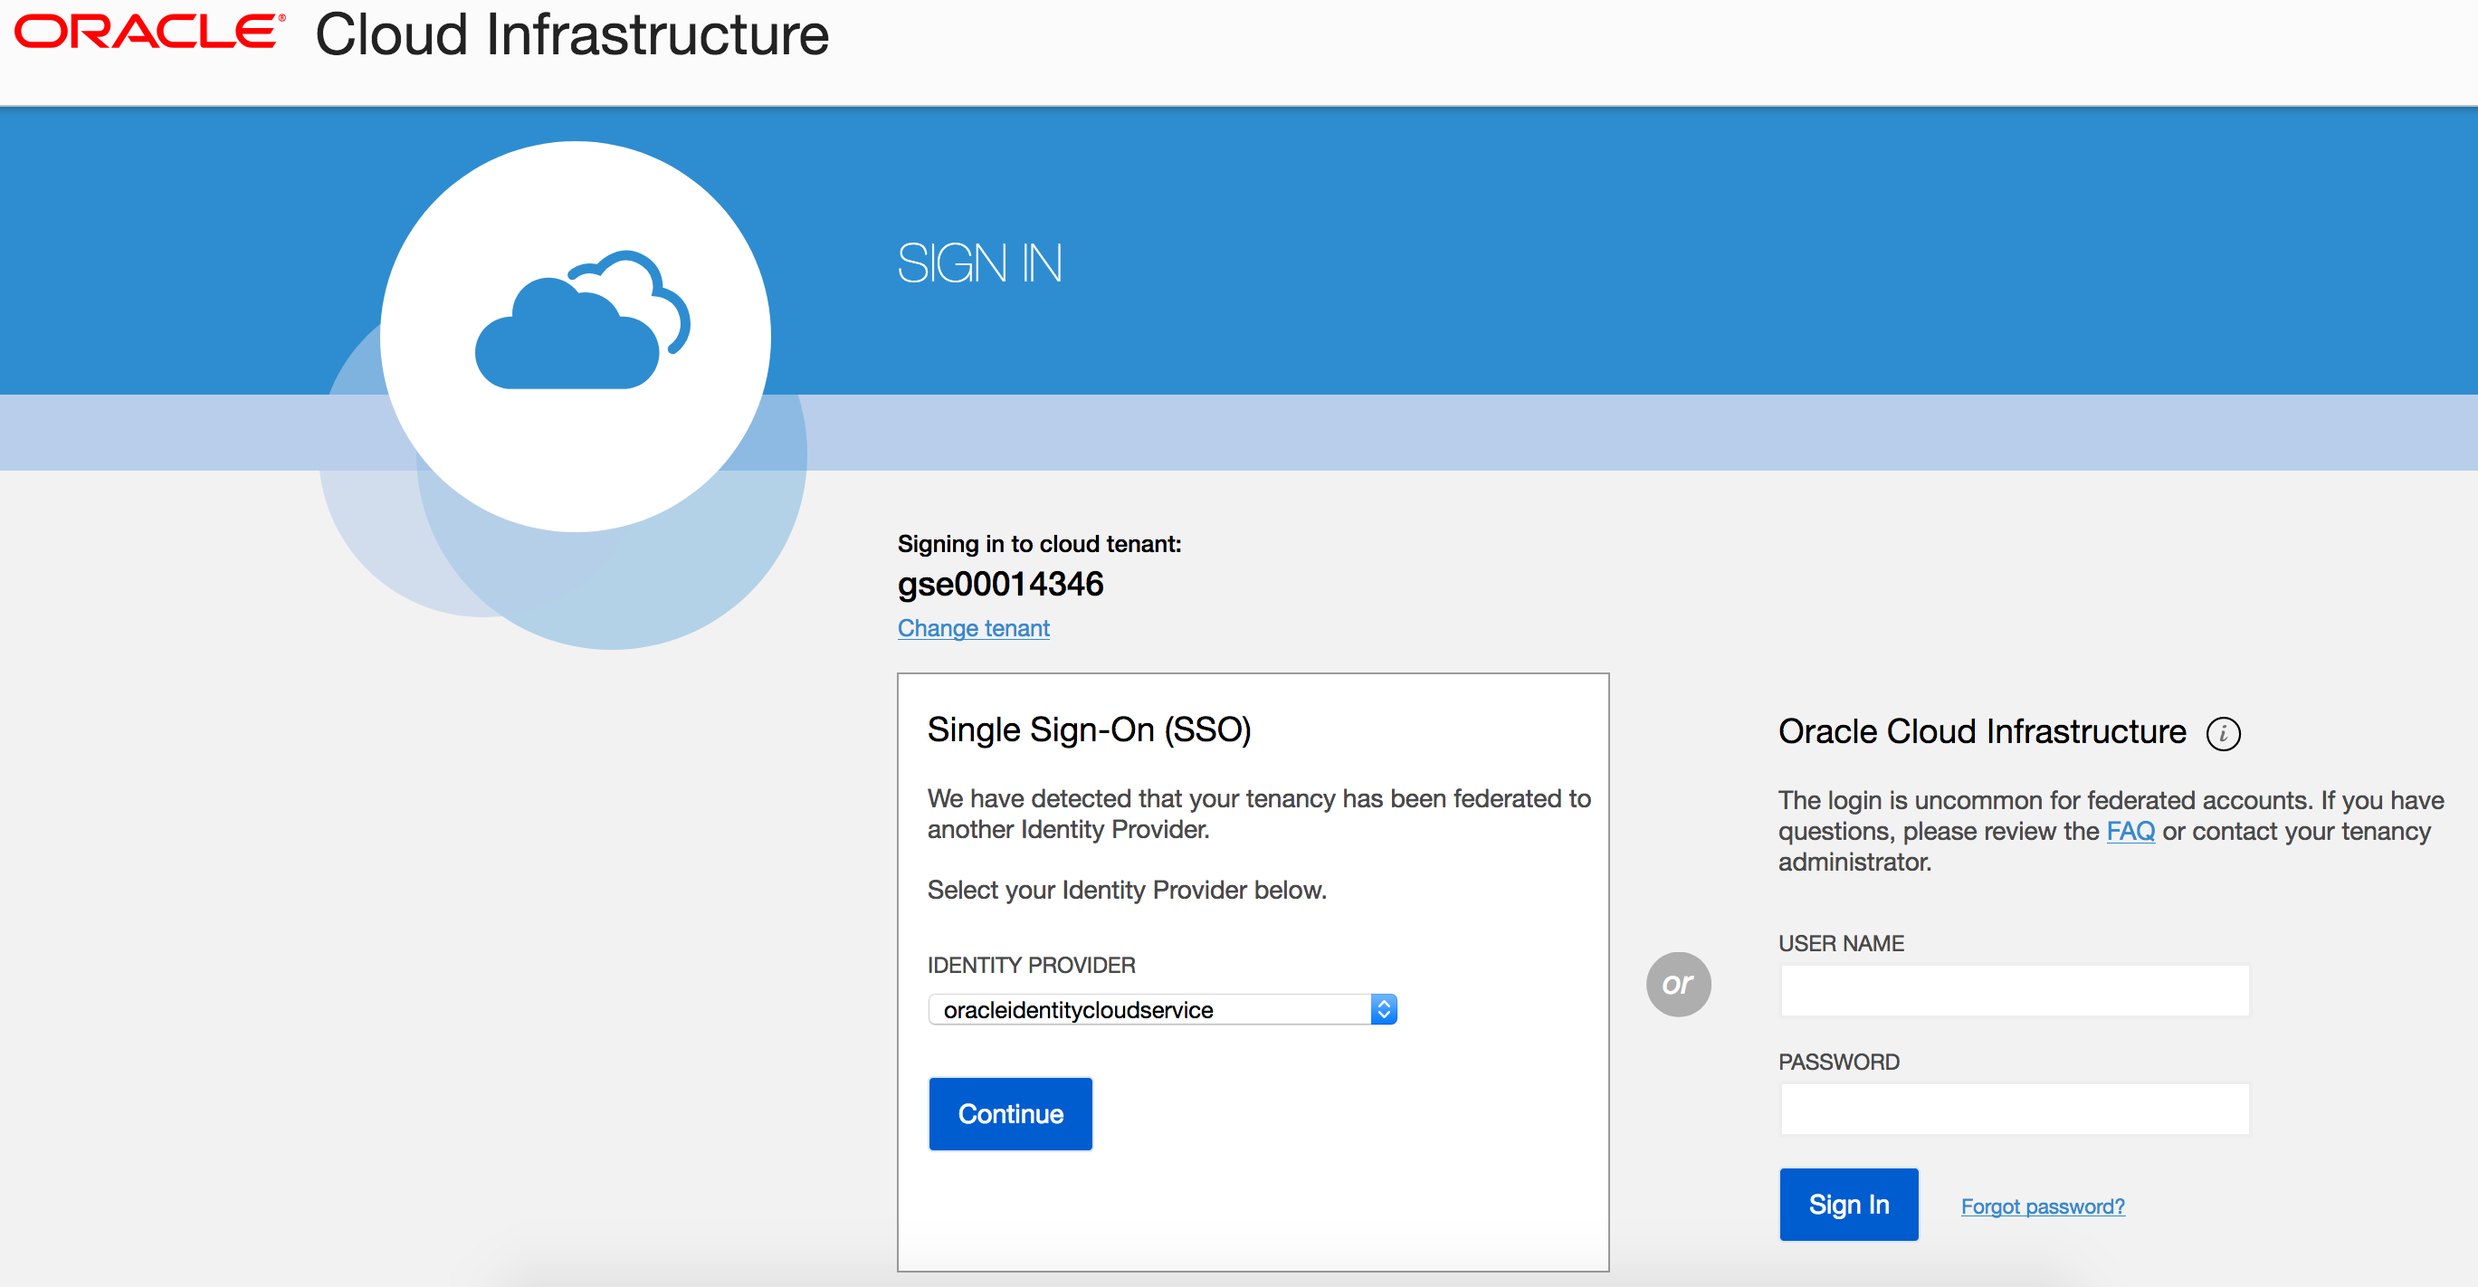
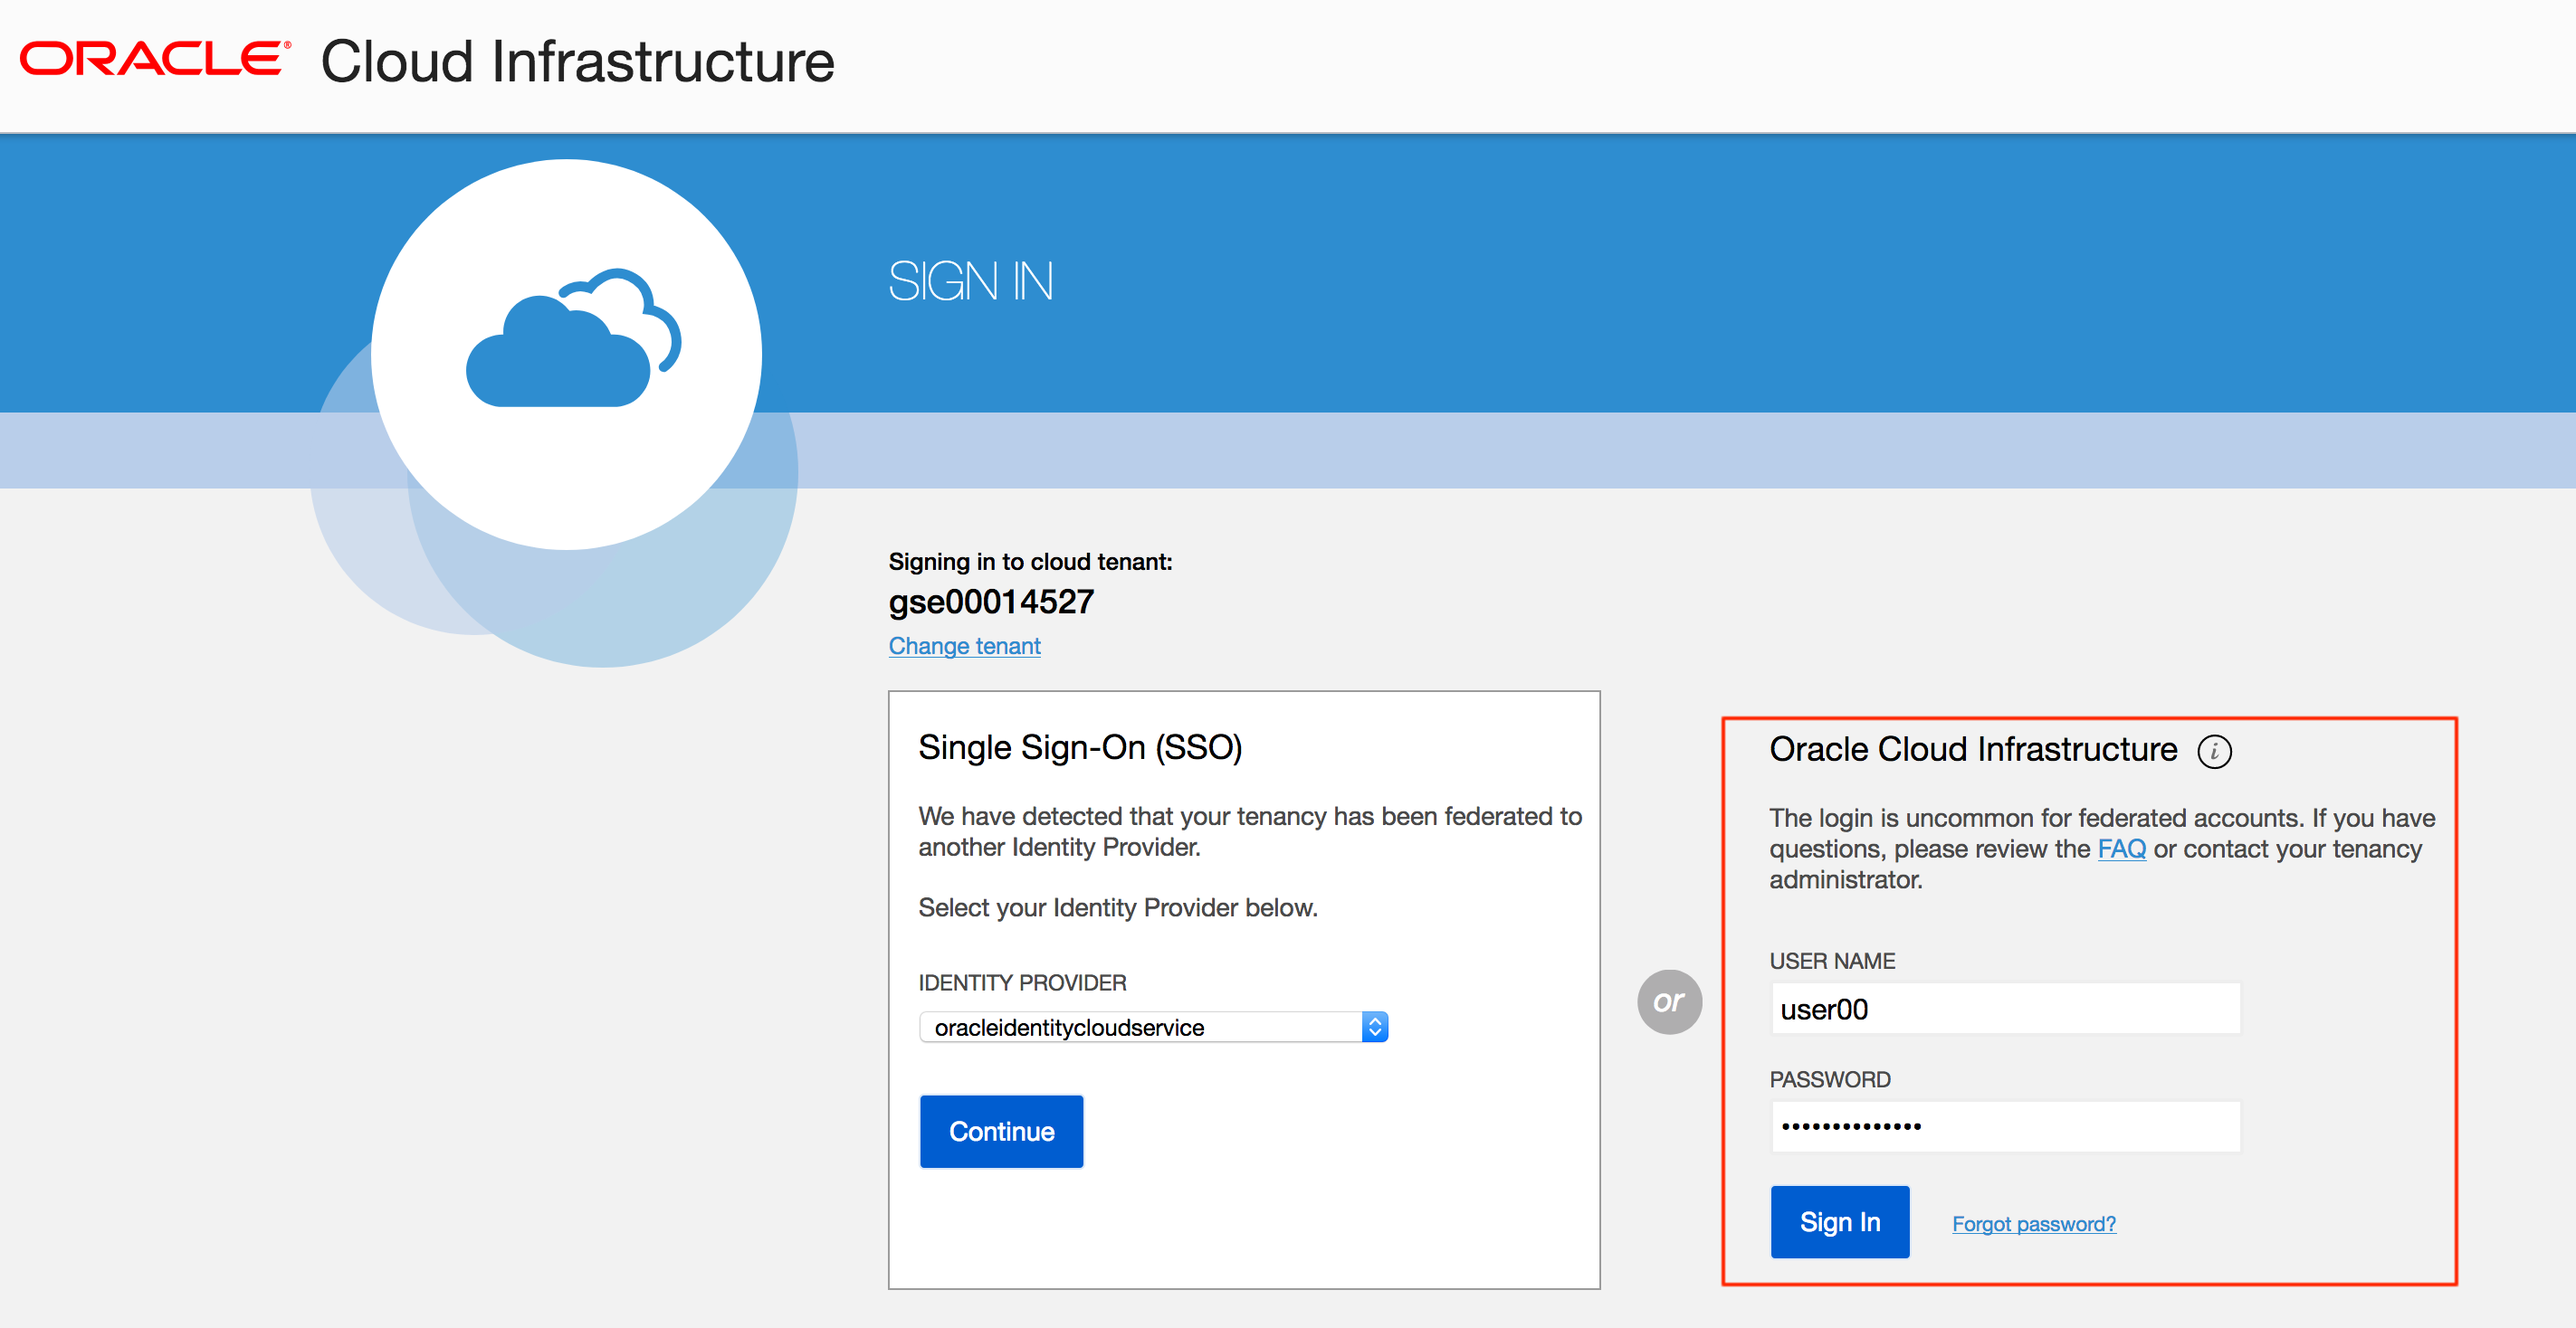
Fixed login issues and add images

diff --git a/oci-library/Foundational/Autonomous_Data_Warehouse/ADW_HOL.md b/oci-library/Foundational/Autonomous_Data_Warehouse/ADW_HOL.md
@@ -49,26 +49,23 @@ Oracle Autonomous Data Warehouse Cloud provides an easy-to-use, fully autonomous
 
 > **Note:**  This file will be loaded into Object Storage and later used to load data into the CHANNELS table.
 
-2) Download SQL Developer Tool from this link: [https://bit.ly/2OHcBcZ](https://bit.ly/2OHcBcZ) and install in your desktop.
+2) Download SQL Developer Tool from this link: [https://bit.ly/2OHcBcZ](https://bit.ly/2OHcBcZ) and install on your Windows 10 VM.
 
 ## Practice 3: Sign in to OCI Console
 
 1) Open a supported browser and go to the Console URL. For example, [https://console.us-ashburn-1.oraclecloud.com](https://console.us-ashburn-1.oraclecloud.com).
 
-2) Enter your tenant name: <Tenant> and click **Continue**
+2) Enter your tenant name: *Instructor will provide you the tenant name* and click **Continue**
 
  ![](img/image001.png)
 
-3) Oracle Cloud Infrastructure is integrated with Identity Cloud Services, you will see a screen validating your Identity Provider. You can just click **Continue**.
+3) Enter your user name and password and click on **Sign In**
+
+ - **Username:** *instructor will provide you username*
+ - **Password:** *instructor will provide password*
 
  ![](img/image002.png)
 
-4) Enter your user name and password
-
- - **Username:** api.user
- - **Password:** _instructor will provide password_
-
- ![](img/image003.png)
 
 When you sign in to the Console, the home page is displayed.
 
@@ -80,7 +77,7 @@ The home page gives you quick links to the documentation and to Oracle Support.
 
 1) Click on **Menu** > **Autonomous Data Warehouse** 
 
-2) Select **Demo** Comparment and click **Create Autonomous Data Warehouse** 
+2) Select your **Test-XX** Comparment and click **Create Autonomous Data Warehouse** 
 
 ![]( img/image005.png)
 
